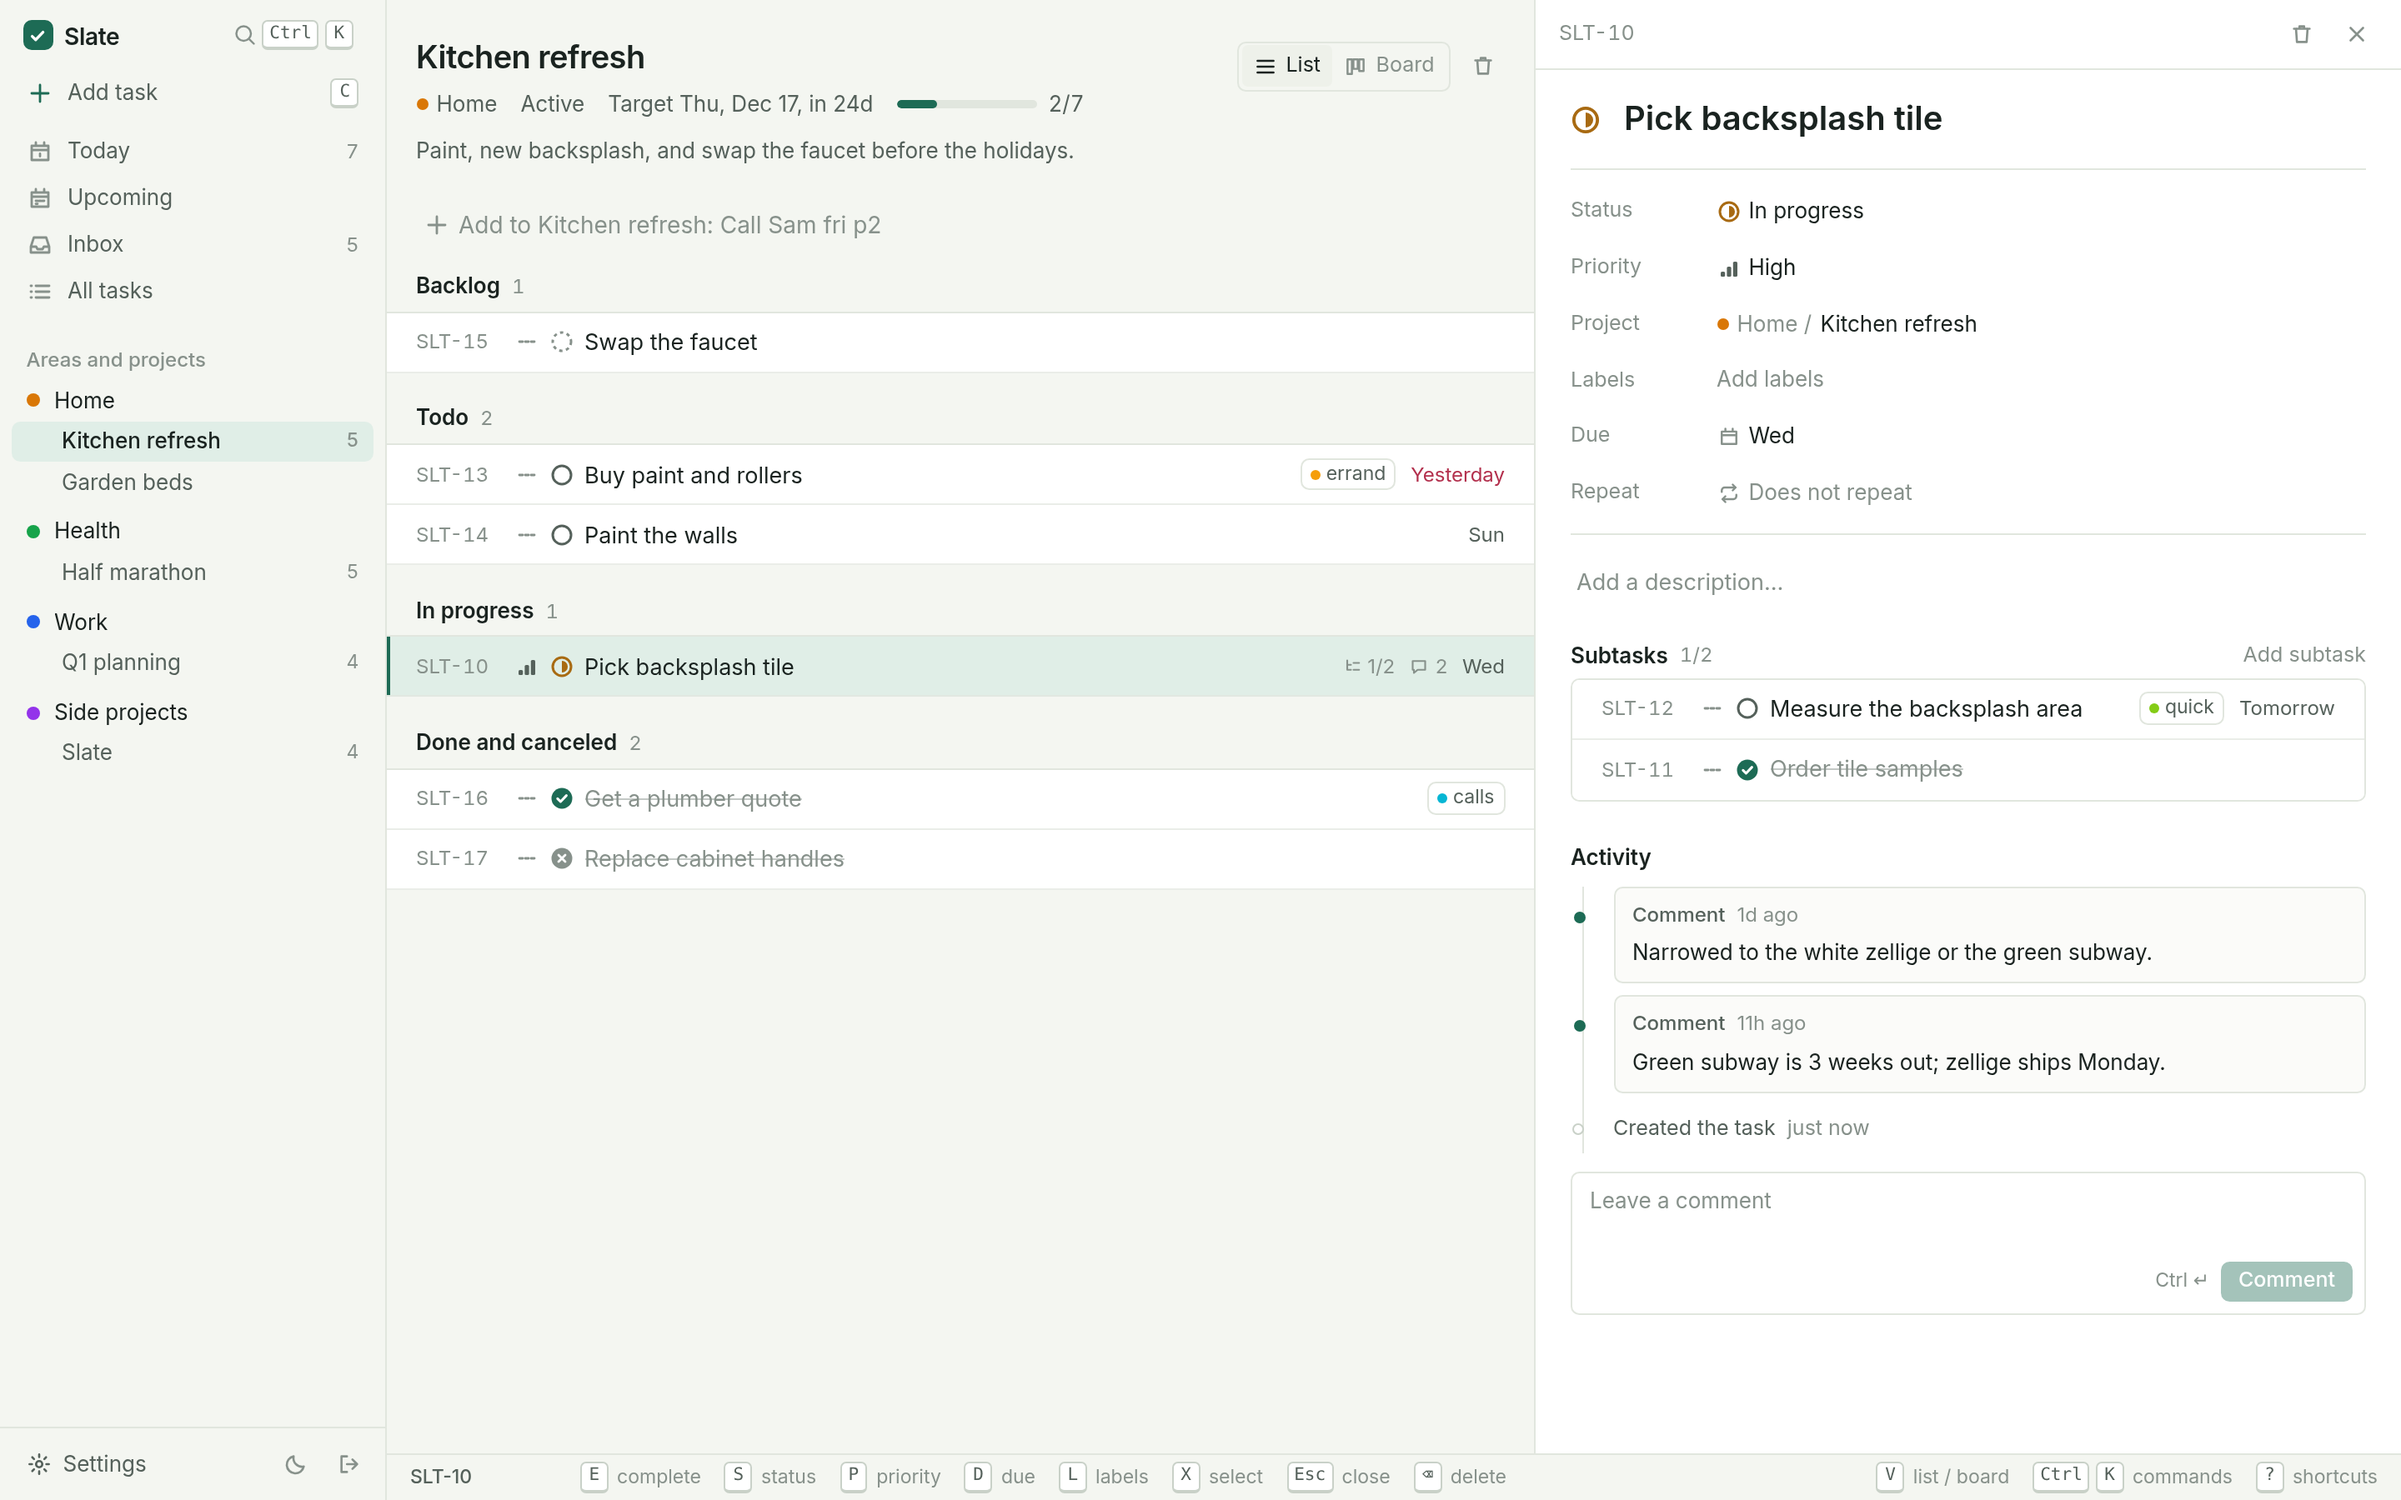
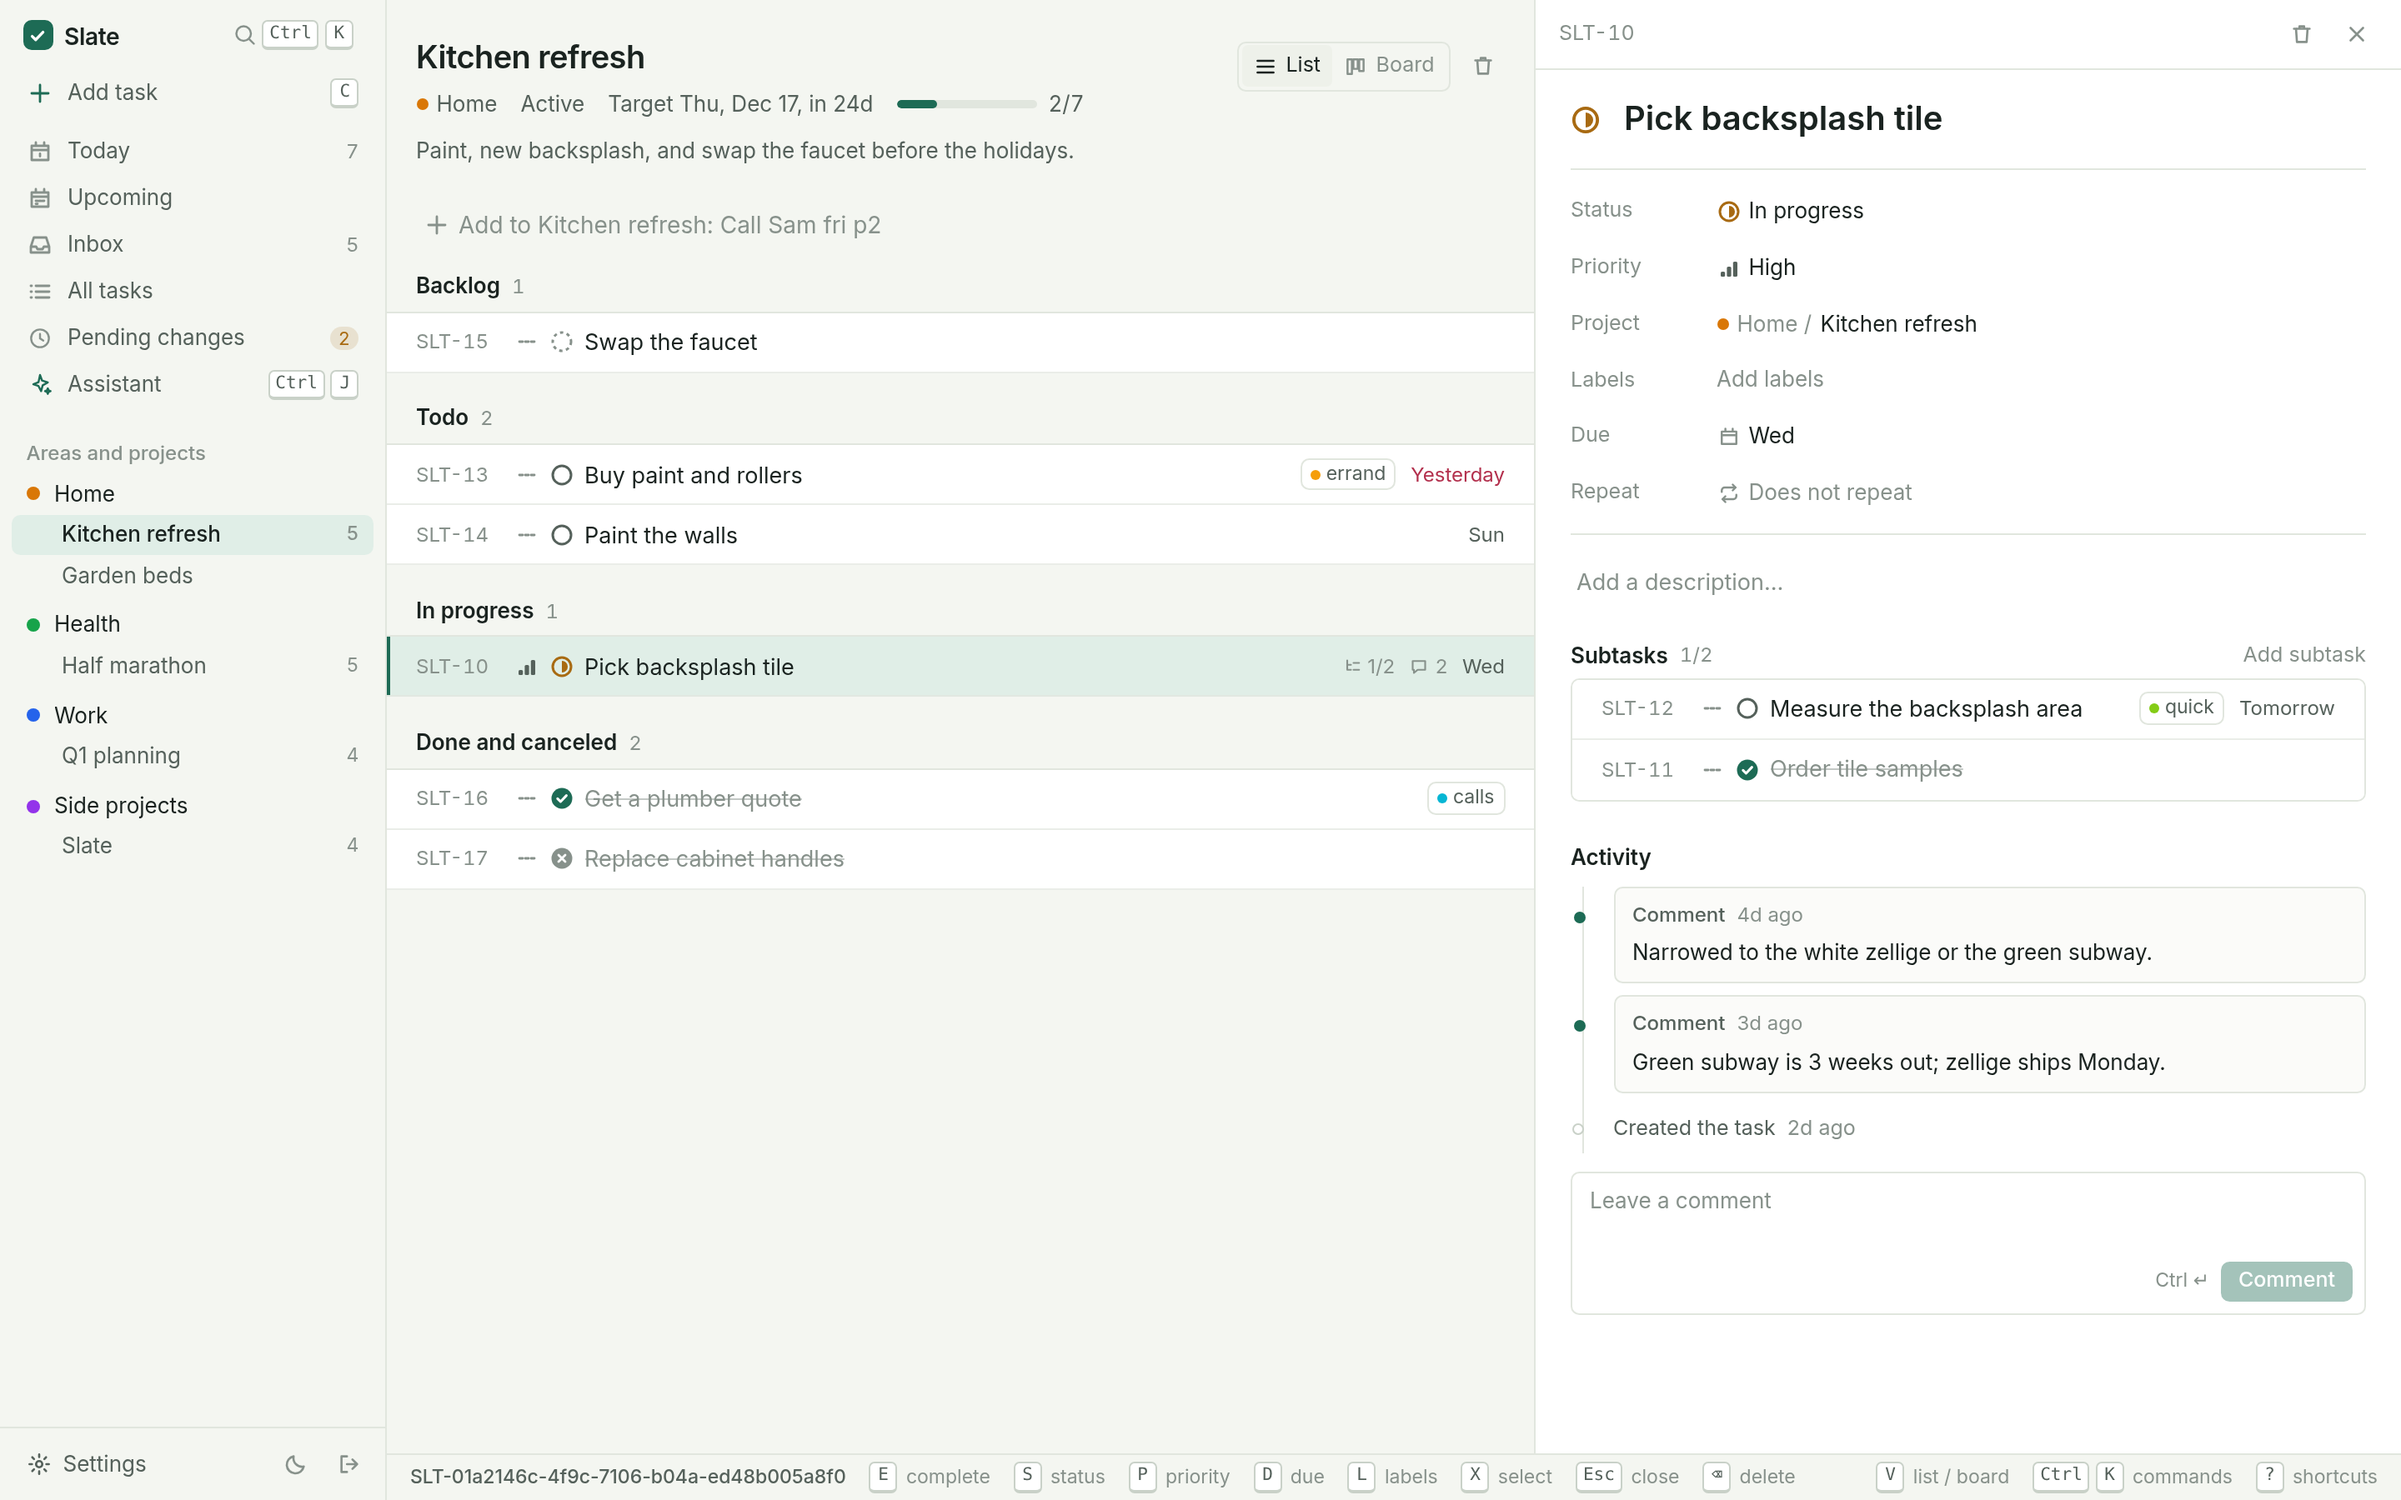
docs: refresh README screenshots and add the assistant
Retake every screenshot from current main so they show the Pending
changes and Assistant entries, add an assistant screenshot and feature
line, note OPENROUTER_API_KEY for local runs, and point the frontend
section at Storybook.

Amp-Thread-ID: https://ampcode.com/threads/T-01a20600-8f4f-70f5-8c43-1fafa9e37302

diff --git a/README.md b/README.md
@@ -15,6 +15,7 @@ Signing in to the hosted app is limited to an allowlist of email addresses. To t
 - **Projects with a list or a board**, grouped into areas, with target dates, progress, subtasks, and comments.
 - **Recurring tasks** with Todoist-style rules such as `every tue` or `every! 3 days`.
 - **Keyboard everywhere**: `C` to add, `J`/`K` to move, `G T` for Today, `Ctrl+K` for the command palette, `?` for every shortcut. Light and dark themes.
+- **An assistant that drafts, you decide.** Ask the sidebar assistant (`Ctrl+J`) to triage, reschedule, or turn a screenshot into tasks. Its writes land as Pending changes you apply or dismiss. AI clients such as Claude Code connect to the same tools over MCP at `/mcp`.
 - **Bring your data**: a bulk import API (`POST /api/import`) moves areas, projects, labels, tasks, and comments over from Linear and Todoist.
 
 ## Screenshots
@@ -35,6 +36,10 @@ Signing in to the hosted app is limited to an allowlist of email addresses. To t
 
 ![Task detail panel with status, priority, subtasks, and comments](docs/screenshots/task-detail.png)
 
+**The assistant** answers questions about your tasks and drafts changes as Pending changes, which you edit, apply, or dismiss.
+
+![Assistant panel with a reply and two drafted Pending changes: a rescheduled task and a new task](docs/screenshots/assistant.png)
+
 **The command palette** (`Ctrl+K`) reaches every view and command, here in the dark theme.
 
 ![Command palette open in the dark theme](docs/screenshots/command-palette-dark.png)
@@ -51,7 +56,7 @@ uv sync --dev
 just dev
 ```
 
-Open the URL the frontend dev server prints (usually http://localhost:5173). `just dev` uses in-memory storage, signs you in as a local dev user, and loads sample data, so nothing needs configuring. Use `just dev-be-sqlite` instead of `just dev-be` to keep data in `./data.db` between restarts.
+Open the URL the frontend dev server prints (usually http://localhost:5173). `just dev` uses in-memory storage, signs you in as a local dev user, and loads sample data, so nothing needs configuring. Use `just dev-be-sqlite` instead of `just dev-be` to keep data in `./data.db` between restarts. The assistant needs `OPENROUTER_API_KEY` set (see `.env.example`); everything else works without it.
 
 The API runs at http://localhost:8000 (interactive docs at `/docs`), and the frontend dev server proxies `/api` to it. Run them separately with `just dev-be` and `just dev-fe`.
 
@@ -99,7 +104,7 @@ docker run -p 8000:8000 slate
 
 ## Frontend
 
-The frontend lives in `src/slate/web/frontend/`. Scaffold it using the `frontend-react` Copier template. See `src/slate/web/frontend/README.md` for details.
+The React frontend lives in `src/slate/web/frontend/`. Run `just storybook` there to browse every screen, overlay, and component in light and dark themes, including empty and loading states. Storybook runs against an in-browser mock API, so it needs no backend.
 
 ## Architecture
 
